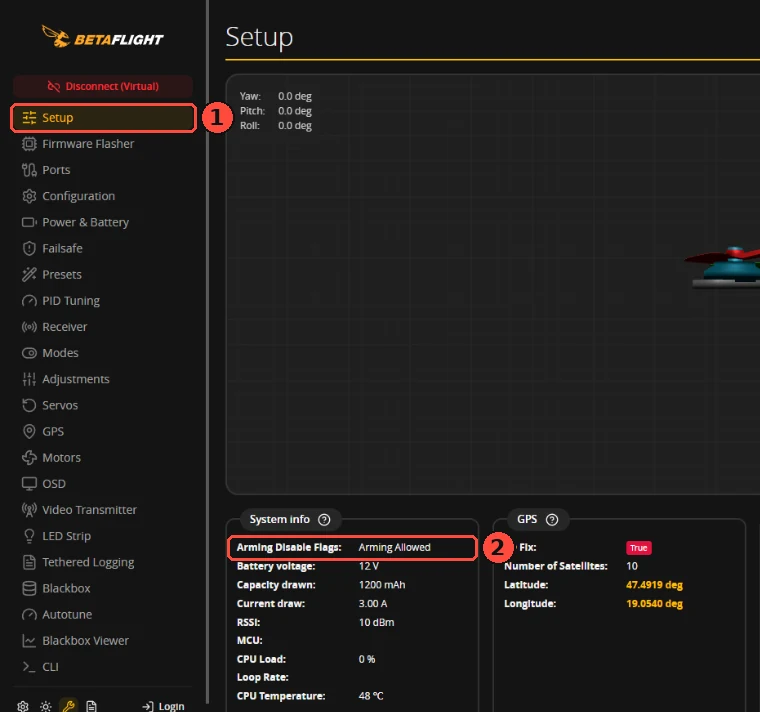
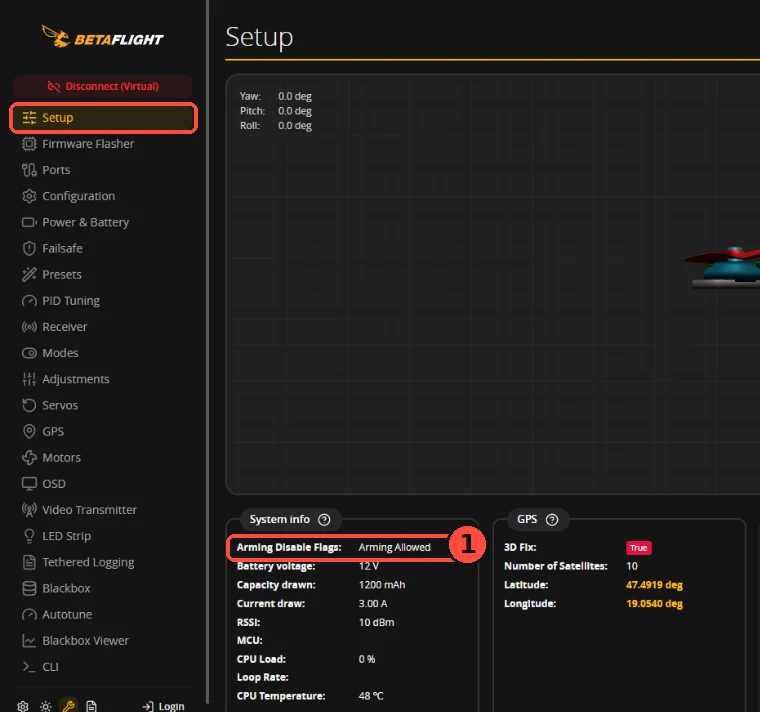
故障排除中心：修正 MSP／CLI 解鎖判定，截圖與圖說改善手機可讀性
- MSP 需在 App 按 Disconnect 才清除；CLI 需 exit／save 重開機，exit noreboot 不清除
- 怎樣算修好：連著 App 時只剩 MSP（＋CLI）
- 解鎖查詢支援 App 顯示名稱 BAD_RX_RECOVERY、ARM_SWITCH
- 手機版重點裁切圖（picture）、圖說拆成編號清單

Claude-Session: https://claude.ai/code/session_01WoWSTdXLgMhsoMfGHALiD3

Changed region(s): [[0.575, 0.7416, 0.6961, 0.8034], [0.2421, 0.1236, 0.3329, 0.1854], [0.3329, 0.7725, 0.3632, 0.8034]]

diff --git a/assets/js/help.js b/assets/js/help.js
@@ -30,13 +30,13 @@
   // [各版本名稱（依 VERS 順序；null＝該版本沒有）, 代表什麼, 下一步, 類型]；類型：ok 可自行處理、adv 交給專業、stop 先停手
   const all = n => [n, n, n, n];
   const FLAGS = [
-    [all('MSP'), '電腦的 Betaflight App（Configurator）還連著', '斷開連線或拔掉 USB。這是正常保護，不是故障。', 'ok'],
-    [all('CLI'), '飛控停在命令列模式', '離開命令列或拔掉 USB。', 'ok'],
+    [all('MSP'), 'Betaflight App（或舊版 Configurator）正連著飛控，連線時會主動禁止解鎖。這是正常保護，不是故障。', '先處理其他原因。最後在 App 按 Disconnect（中斷連線）就會清除；沒按就直接拔 USB、飛控又同時接著電池時，這個原因會留著，要拔掉電池重新上電。', 'ok'],
+    [all('CLI'), '飛控進過命令列（CLI），離開前都不讓解鎖', '在命令列輸入 exit，飛控會重新開機並清除這個原因（沒有 save 的修改會丟掉；要保留就改輸入 save，同樣會重新開機）。exit noreboot 不會清除；直接拔 USB 而電池還接著，也要拔掉電池重新上電。', 'ok'],
     [all('RXLOSS'), '飛控沒有收到有效的遙控訊號', '先看接收機的燈：還沒連上遙控器，或燈恆亮但飛控的連接埠、接收機協定、接線沒設好，都會出現這個字。', 'ok', ['/help/receiver-no-control/', '依接收機燈號排除']],
     [all('THROTTLE'), '油門沒有在最低', '油門拉到底。拉到底仍出現：「接收機」頁的油門數值應低於 1050（預設門檻），不是的話要調整遙控器的油門行程。', 'ok'],
     [all('ANGLE'), '機身太斜', '放平再試（預設傾斜超過 25° 就不讓解鎖）。放平了還是出現：飛機放在平面上做加速度計校正（Betaflight App 2026.6 在 Sensors（感測器）頁按 Calibrate，舊版 Configurator 在 Setup（設定）頁）。', 'ok'],
-    [['ARMSWITCH', 'ARMSWITCH', 'ARM_SWITCH', 'ARM_SWITCH'], '不能解鎖的時候，解鎖開關已經在「開」', '先處理其他原因，再把開關撥回「關」、再撥「開」。', 'ok'],
-    [['BADRX', 'NOT_DISARMED', 'NOT_DISARMED', 'NOT_DISARMED'], '遙控訊號斷掉又恢復時，解鎖開關是開著的', '把解鎖開關撥回「關」。', 'ok'],
+    [['ARMSWITCH', 'ARMSWITCH', 'ARM_SWITCH', 'ARM_SWITCH'], '不能解鎖的時候，解鎖開關已經在「開」', '先處理其他原因，再把開關撥回「關」、再撥「開」。', 'ok', null, ['ARM_SWITCH']],
+    [['BADRX', 'NOT_DISARMED', 'NOT_DISARMED', 'NOT_DISARMED'], '遙控訊號斷掉又恢復時，解鎖開關是開著的', '把解鎖開關撥回「關」。', 'ok', null, ['BAD_RX_RECOVERY']],
     [all('NOPREARM'), '有設定「預解鎖」開關，但沒有先打開', '先打開預解鎖、再解鎖。這是保護功能，不要為了省事取消。', 'ok'],
     [all('CALIB'), '感測器正在校正', '插上電池後不要動飛機，等幾秒。', 'ok'],
     [all('NO_ACC_CAL'), '加速度計需要校正', '飛機放在平面上做加速度計校正（Betaflight App 2026.6 在 Sensors（感測器）頁按 Calibrate，舊版 Configurator 在 Setup（設定）頁）。', 'ok'],
@@ -63,6 +63,9 @@
     const vers = [...tool.querySelectorAll('[data-ver]')];
     let vi = VERS.indexOf(tool.querySelector('[data-ver][aria-pressed="true"]')?.dataset.ver || '4.5'), current = null;
     const nameOf = f => f[0][vi];
+    // Betaflight App 2026.6 畫面上有幾個字和韌體名稱不同（App 原始碼 SetupTab.vue：最後一位一律顯示 ARM_SWITCH、NOT_DISARMED 顯示為 BAD_RX_RECOVERY）
+    const appNames = f => (f[5] || []).filter(n => n !== nameOf(f));
+    const labelOf = f => [nameOf(f), ...appNames(f)].join('／');
     const esc = s => s.replace(/[&<>"]/g, c => ({ '&': '&amp;', '<': '&lt;', '>': '&gt;', '"': '&quot;' }[c]));
     const history = f => {
       const parts = [];
@@ -75,14 +78,15 @@
       const f = current, [label, cls] = TAG[f[3]], h = history(f);
       ans.innerHTML = `<p class="flag-name">${esc(nameOf(f))}<span class="flag-tag ${cls}">${label}</span></p>
         <dl><dt>代表什麼</dt><dd>${esc(f[1])}</dd><dt>下一步</dt><dd${f[3] === 'stop' ? ' class="is-stop"' : ''}>${esc(f[2])}${f[4] ? ` <a href="${f[4][0]}">${esc(f[4][1])} →</a>` : ''}</dd>
+        ${appNames(f).length ? `<dt>畫面上的寫法</dt><dd class="muted">Betaflight App 2026.6 的「設定」頁顯示為 <code>${esc(appNames(f).join('、'))}</code>；命令列 status 與 OSD 用的是韌體名稱 <code>${esc(nameOf(f))}</code>。</dd>` : ''}
         ${h ? `<dt>版本差異</dt><dd class="muted">${h}</dd>` : ''}</dl>`;
     };
     const renderList = () => {
       const s = input.value.trim().toUpperCase();
-      const hits = FLAGS.filter(f => nameOf(f) && (!s || f[0].some(n => n && n.includes(s))));
+      const hits = FLAGS.filter(f => nameOf(f) && (!s || [...f[0], ...(f[5] || [])].some(n => n && n.includes(s))));
       list.replaceChildren(...hits.map(f => {
         const b = document.createElement('button');
-        b.type = 'button'; b.textContent = nameOf(f);
+        b.type = 'button'; b.textContent = labelOf(f);
         b.className = f[3] === 'ok' ? '' : 'is-muted';
         b.setAttribute('aria-pressed', String(f === current));
         b.addEventListener('click', () => { current = f; renderList(); renderAnswer(); });

diff --git a/assets/css/site.css b/assets/css/site.css
@@ -782,7 +782,7 @@ section{padding:36px 0}
 .help-sources h2{font-size:16px;color:var(--muted)}
 .help-sources ul{margin:8px 0 0;padding-left:20px;font-size:14px}
 .help-sources a{color:var(--muted);text-decoration:underline;text-underline-offset:3px}
-.help-fig{margin:18px 0}.help-fig a{display:block;border:1px solid rgba(255,255,255,.12);border-radius:6px;overflow:hidden}.help-fig img{display:block;width:100%;height:auto}.help-fig figcaption{font-size:13px;line-height:1.6;color:var(--muted);margin-top:8px}.help-fig-zoom{display:block;font-size:12px;opacity:.8;margin-top:2px}
+.help-fig{margin:18px 0}.help-fig a{display:block;border:1px solid rgba(255,255,255,.12);border-radius:6px;overflow:hidden}.help-fig img{display:block;width:100%;height:auto}.help-fig picture{display:block}.help-fig figcaption{font-size:15px;line-height:1.65;color:var(--text);margin-top:10px}.help-fig-title{display:block;font-weight:700;margin-bottom:6px}.help-fig-marks{list-style:none;margin:0;padding:0;display:grid;gap:6px}.help-fig-marks li{display:flex;gap:10px;align-items:flex-start}.help-fig-n{flex:none;display:inline-grid;place-items:center;width:24px;height:24px;margin-top:1px;border-radius:50%;background:var(--red);color:var(--red-ink);font-weight:700;font-size:14px;line-height:1}.help-fig-note{margin:8px 0 0;font-size:14px;color:var(--muted)}.help-fig-zoom{display:block;font-size:13px;color:var(--muted);margin-top:6px}
 @media(max-width:900px){
   .help-layout{grid-template-columns:minmax(0,1fr);gap:24px}
   .help-aside{position:static;order:-1}

diff --git a/src/data/help/betaflight-arming.md b/src/data/help/betaflight-arming.md
@@ -20,6 +20,8 @@ keywords:
   - ANGLE
   - MSP
   - status
+  - CLI
+  - BAD_RX_RECOVERY
 legacy_items:
   - 10
 prepare:
@@ -30,6 +32,9 @@ sources:
   - Betaflight 官方原始碼（4.5 解鎖禁用原因名稱） | https://github.com/betaflight/betaflight/blob/4.5-maintenance/src/main/fc/runtime_config.c
   - Betaflight 官方原始碼（2026.6 解鎖禁用原因名稱） | https://github.com/betaflight/betaflight/blob/2026.6.2/src/main/fc/runtime_config.c
   - Betaflight 官方原始碼（各原因的觸發條件） | https://github.com/betaflight/betaflight/blob/4.5-maintenance/src/main/fc/core.c
+  - Betaflight 官方原始碼（MSP 禁止解鎖的設定與清除） | https://github.com/betaflight/betaflight/blob/4.5-maintenance/src/main/msp/msp.c
+  - Betaflight 官方原始碼（命令列 exit、status 與 CLI 原因） | https://github.com/betaflight/betaflight/blob/4.5-maintenance/src/main/cli/cli.c
+  - Betaflight App 2026.6.2 原始碼（中斷連線時解除 MSP 禁止） | https://github.com/betaflight/betaflight-configurator/blob/2026.6.2/src/js/serial_backend.js
   - Oscar Liang：Quad Arming Issue Fix | https://oscarliang.com/quad-arming-issue-fix
 ---
 :::safety 開始前
@@ -41,9 +46,9 @@ sources:
 1. **先看飛控在說什麼**：USB 連上電腦，打開 Betaflight App 的「設定」頁，找到 Arming Disable Flags 欄位，飛控會在這裡列出目前不能解鎖的原因。在戶外沒有電腦時，可以在 OSD 開啟「警告」項目，眼鏡畫面會直接顯示原因。
 2. **記下列出來的字**：一次可能出現好幾個，從第一個開始處理。
 3. **用下面的查詢工具一個一個處理**：處理完一個，就回到「設定」頁重看一次清單。
-4. **拔掉 USB 後再試解鎖**：接著電腦軟體時，飛控會故意不讓你解鎖（就是 MSP 這個原因），這是正常的保護。
+4. **MSP、CLI 是電腦連線造成的，最後再清除**：只要 Betaflight App 連著飛控，清單裡就一定有 MSP；進過命令列還會多一個 CLI。先把其他原因處理到消失，再照下表清除這兩個，然後試解鎖。
 
-![Betaflight App 2026.6.2「設定」頁（Setup）：① 左側 Setup 分頁；② Arming Disable Flags 欄位，不能解鎖的原因會列在這裡。此圖是沒接飛控的虛擬模式，所以顯示 Arming Allowed（允許解鎖），實機會列出實際原因。](/assets/img/help/betaflight-arming/bf-setup-arming-flags.webp)
+![Betaflight App 2026.6.2「設定」頁（左側選單 Setup）：① Arming Disable Flags 欄位，不能解鎖的原因會列在這裡。此圖是沒接飛控的虛擬模式，所以顯示 Arming Allowed（允許解鎖）；接上實機時這裡會列出實際原因，而且只要 App 連著，至少會有 MSP。](/assets/img/help/betaflight-arming/bf-setup-arming-flags.webp)
 
 {{tool:arming-flags}}
 
@@ -51,13 +56,13 @@ sources:
 
 | 看到的字 | 代表什麼 | 下一步 |
 | --- | --- | --- |
-| MSP | 電腦的 Betaflight App 還連著 | 斷開連線或拔掉 USB，這是正常保護 |
-| CLI | 飛控停在命令列模式 | 離開命令列或拔掉 USB |
+| MSP | Betaflight App（或舊版 Configurator）正連著飛控，連線時會主動禁止解鎖 | 在 App 按 Disconnect（中斷連線）就會清除。沒按就直接拔 USB、飛控又同時接著電池時，這個原因會留著：拔掉電池重新上電 |
+| CLI | 飛控進過命令列（CLI），離開前都不讓解鎖 | 在命令列輸入 `exit`，飛控會重新開機並清除這個原因；沒有 `save` 的修改會丟掉，要保留就改輸入 `save`（同樣會重新開機）。`exit noreboot` 不會清除；直接拔 USB 而電池還接著，也要拔掉電池重新上電 |
 | RXLOSS | 飛控沒有收到有效的遙控訊號 | 先看接收機的燈：還沒連上遙控器，或燈恆亮但飛控的連接埠、接收機協定、接線沒設好，都會出現這個字。照 [[receiver-no-control]] 依燈號處理 |
 | THROTTLE | 油門沒有在最低 | 油門拉到底。拉到底仍出現：「接收機」頁的油門數值應低於 1050（預設門檻），不是的話要調整遙控器的油門行程 |
 | ANGLE | 機身太斜 | 放平再試（預設傾斜超過 25° 就不讓解鎖）。放平了還是出現：飛機放在平面上做加速度計校正（Betaflight App 2026.6 在「感測器」頁按 Calibrate，舊版 Configurator 在「設定」頁） |
-| ARM_SWITCH（4.5 以前叫 ARMSWITCH） | 不能解鎖的時候，解鎖開關已經在「開」 | 先處理其他原因，再把開關撥回「關」、再撥「開」 |
-| NOT_DISARMED（4.4 叫 BADRX） | 遙控訊號斷掉又恢復時，解鎖開關是開著的 | 把解鎖開關撥回「關」 |
+| ARM_SWITCH（4.4、4.5 的韌體叫 ARMSWITCH，但 Betaflight App 2026.6 畫面一律顯示 ARM_SWITCH） | 不能解鎖的時候，解鎖開關已經在「開」 | 先處理其他原因，再把開關撥回「關」、再撥「開」 |
+| NOT_DISARMED（4.4 叫 BADRX；Betaflight App 2026.6 的「設定」頁顯示為 BAD_RX_RECOVERY） | 遙控訊號斷掉又恢復時，解鎖開關是開著的 | 把解鎖開關撥回「關」 |
 | NOPREARM | 有設定「預解鎖」開關，但沒有先打開 | 先打開預解鎖、再解鎖。這是保護功能，不要為了省事取消 |
 | CALIB | 感測器正在校正 | 插上電池後不要動飛機，等幾秒 |
 | NO_ACC_CAL | 加速度計需要校正 | 飛機放在平面上做加速度計校正（Betaflight App 2026.6 在「感測器」頁按 Calibrate，舊版 Configurator 在「設定」頁） |
@@ -68,7 +73,7 @@ sources:
 清單裡出現 RUNAWAY、CRASH、DSHOT_TELEM（4.4 叫 RPMFILTER）、MOTOR_PROTO、LOAD、NOGYRO、GPS 或 RESCUE_SW，就不屬於新手自行處理的範圍。其中 RUNAWAY 代表上次解鎖時飛控偵測到「失控衝飛」，常見原因是馬達順序、旋轉方向或槳裝錯，很危險，先不要再試。
 
 :::advanced 進階：命令列與版本差異
-在命令列輸入 `status`，最後一行會列出目前所有禁止解鎖的原因。
+在命令列輸入 `status`，最後一行 `Arming disable flags:` 會列出目前所有禁止解鎖的原因。這時一定會看到 MSP 和 CLI（你正連著電腦、在命令列裡），判斷時看其餘的原因。
 
 版本之間的名稱變化：4.5 起 `BADRX` 改為 `NOT_DISARMED`、`RPMFILTER` 改為 `DSHOT_TELEM`；2025.12 起 `ARMSWITCH` 改為 `ARM_SWITCH`，並新增 `FLIP_SWITCH`、`ALT_HOLD_SW`、`POS_HOLD_SW`；2026.6 再新增 `AUTOPILOT_SW`。上面的查詢工具可以切換版本對照。
 
@@ -76,8 +81,9 @@ sources:
 :::
 
 :::checks 怎樣算修好
-- 「設定」頁的 Arming Disable Flags 不再列出任何原因
-- 拔掉 USB、拆槳狀態下撥解鎖開關：眼鏡畫面的計時開始跳，或馬達開始怠速轉動
+- 連著 App 時，「設定」頁的 Arming Disable Flags 只剩 MSP（進過命令列的話再加 CLI），其他原因都消失
+- 在 App 按 Disconnect 再拔 USB；剛進過命令列、或沒按 Disconnect 就拔線的話，先拔掉電池重新上電
+- 拆槳狀態下撥解鎖開關：眼鏡畫面的計時開始跳，或馬達開始怠速轉動
 - 撥回「關」時，馬達立刻停止
 :::
 

diff --git a/CHANGELOG.md b/CHANGELOG.md
@@ -1,5 +1,15 @@
 # CHANGELOG
 
+## v2.20.4（2026-10-28，解鎖判定修正與截圖手機可讀性｜預覽中）
+
+- 無法解鎖：依 Betaflight 4.5／2026.6 原始碼（msp.c、cli.c）與 Betaflight App 2026.6.2 原始碼修正 MSP、CLI 的清除方式與「怎樣算修好」。
+  - MSP：只要 App 連著就一定會出現；要在 App 按 Disconnect 才會清除。沒按就拔 USB、飛控又接著電池時會留著，要重新上電。
+  - CLI：要輸入 `exit` 或 `save` 讓飛控重開機才會清除；`exit noreboot` 或直接拔 USB（電池還接著）都不會清除。
+  - 「怎樣算修好」改為：連著 App 時只剩 MSP（進過命令列再加 CLI）→ 按 Disconnect、必要時重新上電 → 拆槳試解鎖。原本寫「不再列出任何原因」，連著 App 時不可能做到。
+  - `status` 一定會看到 MSP、CLI，判斷時看其餘原因。
+- 解鎖查詢：Betaflight App 2026.6 畫面上 NOT_DISARMED 顯示為 BAD_RX_RECOVERY，4.4／4.5 的 ARMSWITCH 一律顯示為 ARM_SWITCH，兩種寫法都查得到，並說明畫面與命令列／OSD 的差別。
+- 截圖手機可讀性：手機（700px 以下）改用只含重點區域的裁切圖，紅框與編號放大；電腦版維持完整畫面。圖說拆成標題、紅色編號清單（與圖上編號對應）與補充說明，字級由 13px 灰字改為 15px 正文色。
+
 ## v2.20.3（2026-10-28，故障排除中心加入實際軟體截圖｜預覽中）
 
 - 新增 4 張 Betaflight App 2026.6.2 實際畫面（瀏覽器開官方 app.betaflight.com 虛擬模式截取，英文介面，紅框＋編號標註，不是 AI 生成）：「設定」頁 Arming Disable Flags（解鎖文章）、「接收機」頁與「連接埠」頁（接收機文章）、「馬達」頁（馬達文章）。圖說註明版本與「虛擬模式，數值不是實機」；點圖可開原尺寸。

diff --git a/src/data/help/receiver-no-control.md b/src/data/help/receiver-no-control.md
@@ -95,9 +95,9 @@ sources:
 5. **看接線方向**：接收機的 TX 要接飛控的 RX，接收機的 RX 接飛控的 TX（交叉接）。
 6. **通道會動但順序不對**：例如推油門卻動到別的通道，調整「接收機」頁的通道順序，讓每支搖桿動到對應的通道。
 
-![Betaflight App 2026.6.2「接收機」頁（Receiver）：① Receiver 分頁；② 通道條，撥搖桿時要跟著動；③ Receiver Mode 選 Serial (via UART)，Serial Receiver Provider 選 CRSF。此圖是沒接飛控的虛擬模式，通道固定停在 1500，不是實機數值。](/assets/img/help/receiver-no-control/bf-receiver.webp)
+![Betaflight App 2026.6.2「接收機」頁（左側選單 Receiver）：① 通道條，撥搖桿時要跟著動；② Receiver Mode 選 Serial (via UART)，Serial Receiver Provider 選 CRSF。此圖是沒接飛控的虛擬模式，通道固定停在 1500，不是實機數值。](/assets/img/help/receiver-no-control/bf-receiver.webp)
 
-![Betaflight App 2026.6.2「連接埠」頁（Ports）：① Ports 分頁；② 每一組 UART 一列；③ Serial Rx 欄，只在接收機實際接的那一組打開。此圖是虛擬模式，全部都還沒打開。](/assets/img/help/receiver-no-control/bf-ports.webp)
+![Betaflight App 2026.6.2「連接埠」頁（左側選單 Ports）：① 每一組 UART 一列；② Serial Rx 欄，只在接收機實際接的那一組打開。此圖是虛擬模式，全部都還沒打開。](/assets/img/help/receiver-no-control/bf-ports.webp)
 :::
 
 :::advanced 進階：命令列檢查

diff --git a/src/data/help/motors-after-arming.md b/src/data/help/motors-after-arming.md
@@ -60,7 +60,7 @@ sources:
 3. **槳的方向**：槳分正轉與反轉兩種，要和那顆馬達的轉向配對；槳上通常有標示（例如 R 或轉向箭頭），依槳的標示安裝。
 4. **飛控方向**：「設定」頁的 3D 飛機，要和你手上飛機傾斜的方向一樣。方向相反，代表飛控安裝方向設定不對。
 
-![Betaflight App 2026.6.2「馬達」頁（Motors）：① 馬達位置與編號圖，箭頭是機頭方向；② Motor direction is reversed（馬達反轉）開關；③ 單顆馬達的測試滑桿；④ 確認已拆槳的開關（I understand the risks），打開後才能推滑桿。此圖是沒接飛控的虛擬模式。](/assets/img/help/motors-after-arming/bf-motors.webp)
+![Betaflight App 2026.6.2「馬達」頁（左側選單 Motors）：① 馬達位置與編號圖，箭頭是機頭方向；② Motor direction is reversed（馬達反轉）開關；③ 單顆馬達的測試滑桿；④ 確認已拆槳的開關（I understand the risks），打開後才能推滑桿。此圖是沒接飛控的虛擬模式。](/assets/img/help/motors-after-arming/bf-motors.webp)
 :::
 
 :::case D 拆槳解鎖後，馬達越轉越快

diff --git a/docs/admin/HELP_SCREENSHOTS.md b/docs/admin/HELP_SCREENSHOTS.md
@@ -24,3 +24,5 @@
 2. 連線鈕旁的下拉選 Virtual Mode (Experimental) → Connect。
 3. 若 Chrome 自動翻譯成中文，翻譯品質不一致（例如 Auto 變「汽車」），請關掉該頁翻譯，使用英文介面截圖。
 4. 原圖裁切後用紅框（#ff4a3d）＋編號標註，存成 WebP 放在 /assets/img/help/<slug>/，圖說寫版本與「虛擬模式，數值不是實機」。
+5. 每張圖另做手機版裁切圖 `<檔名>-m.webp`（寬 800px，只留重點區域、紅框與編號放大）；建置時偵測到就自動用 `<picture>` 在 700px 以下改用手機版。
+6. 圖說寫成「標題：① 說明；② 說明。補充說明」，網站會自動拆成編號清單；編號要和圖上的紅色編號一致。
